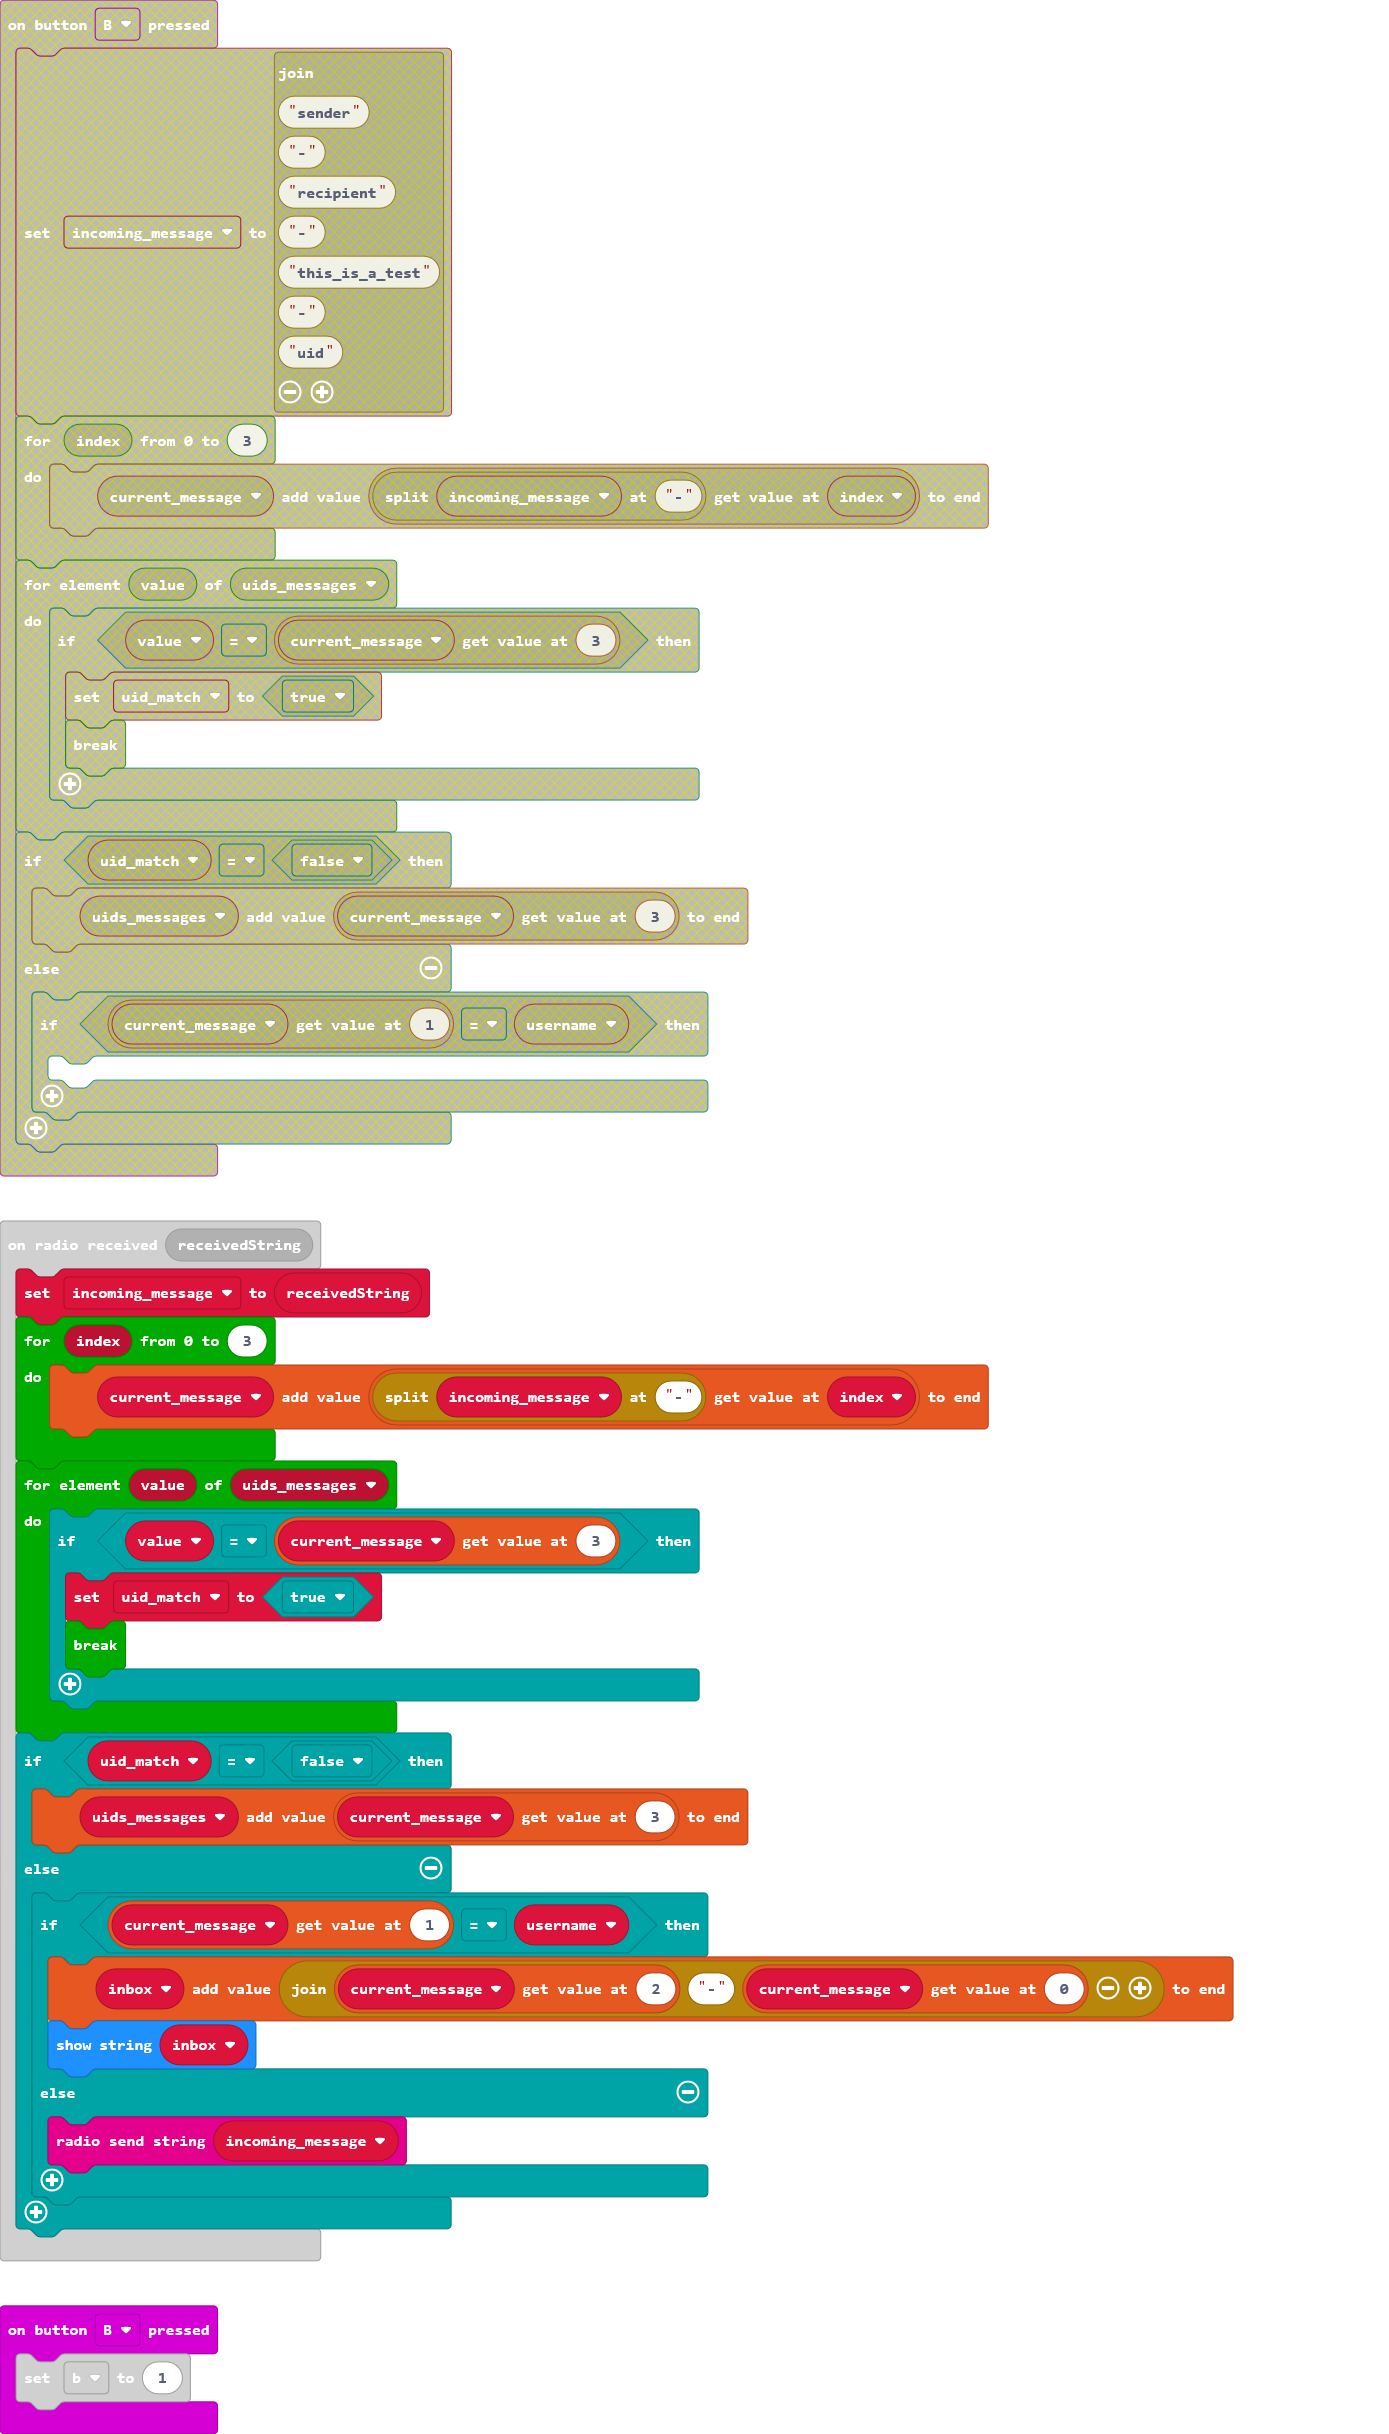
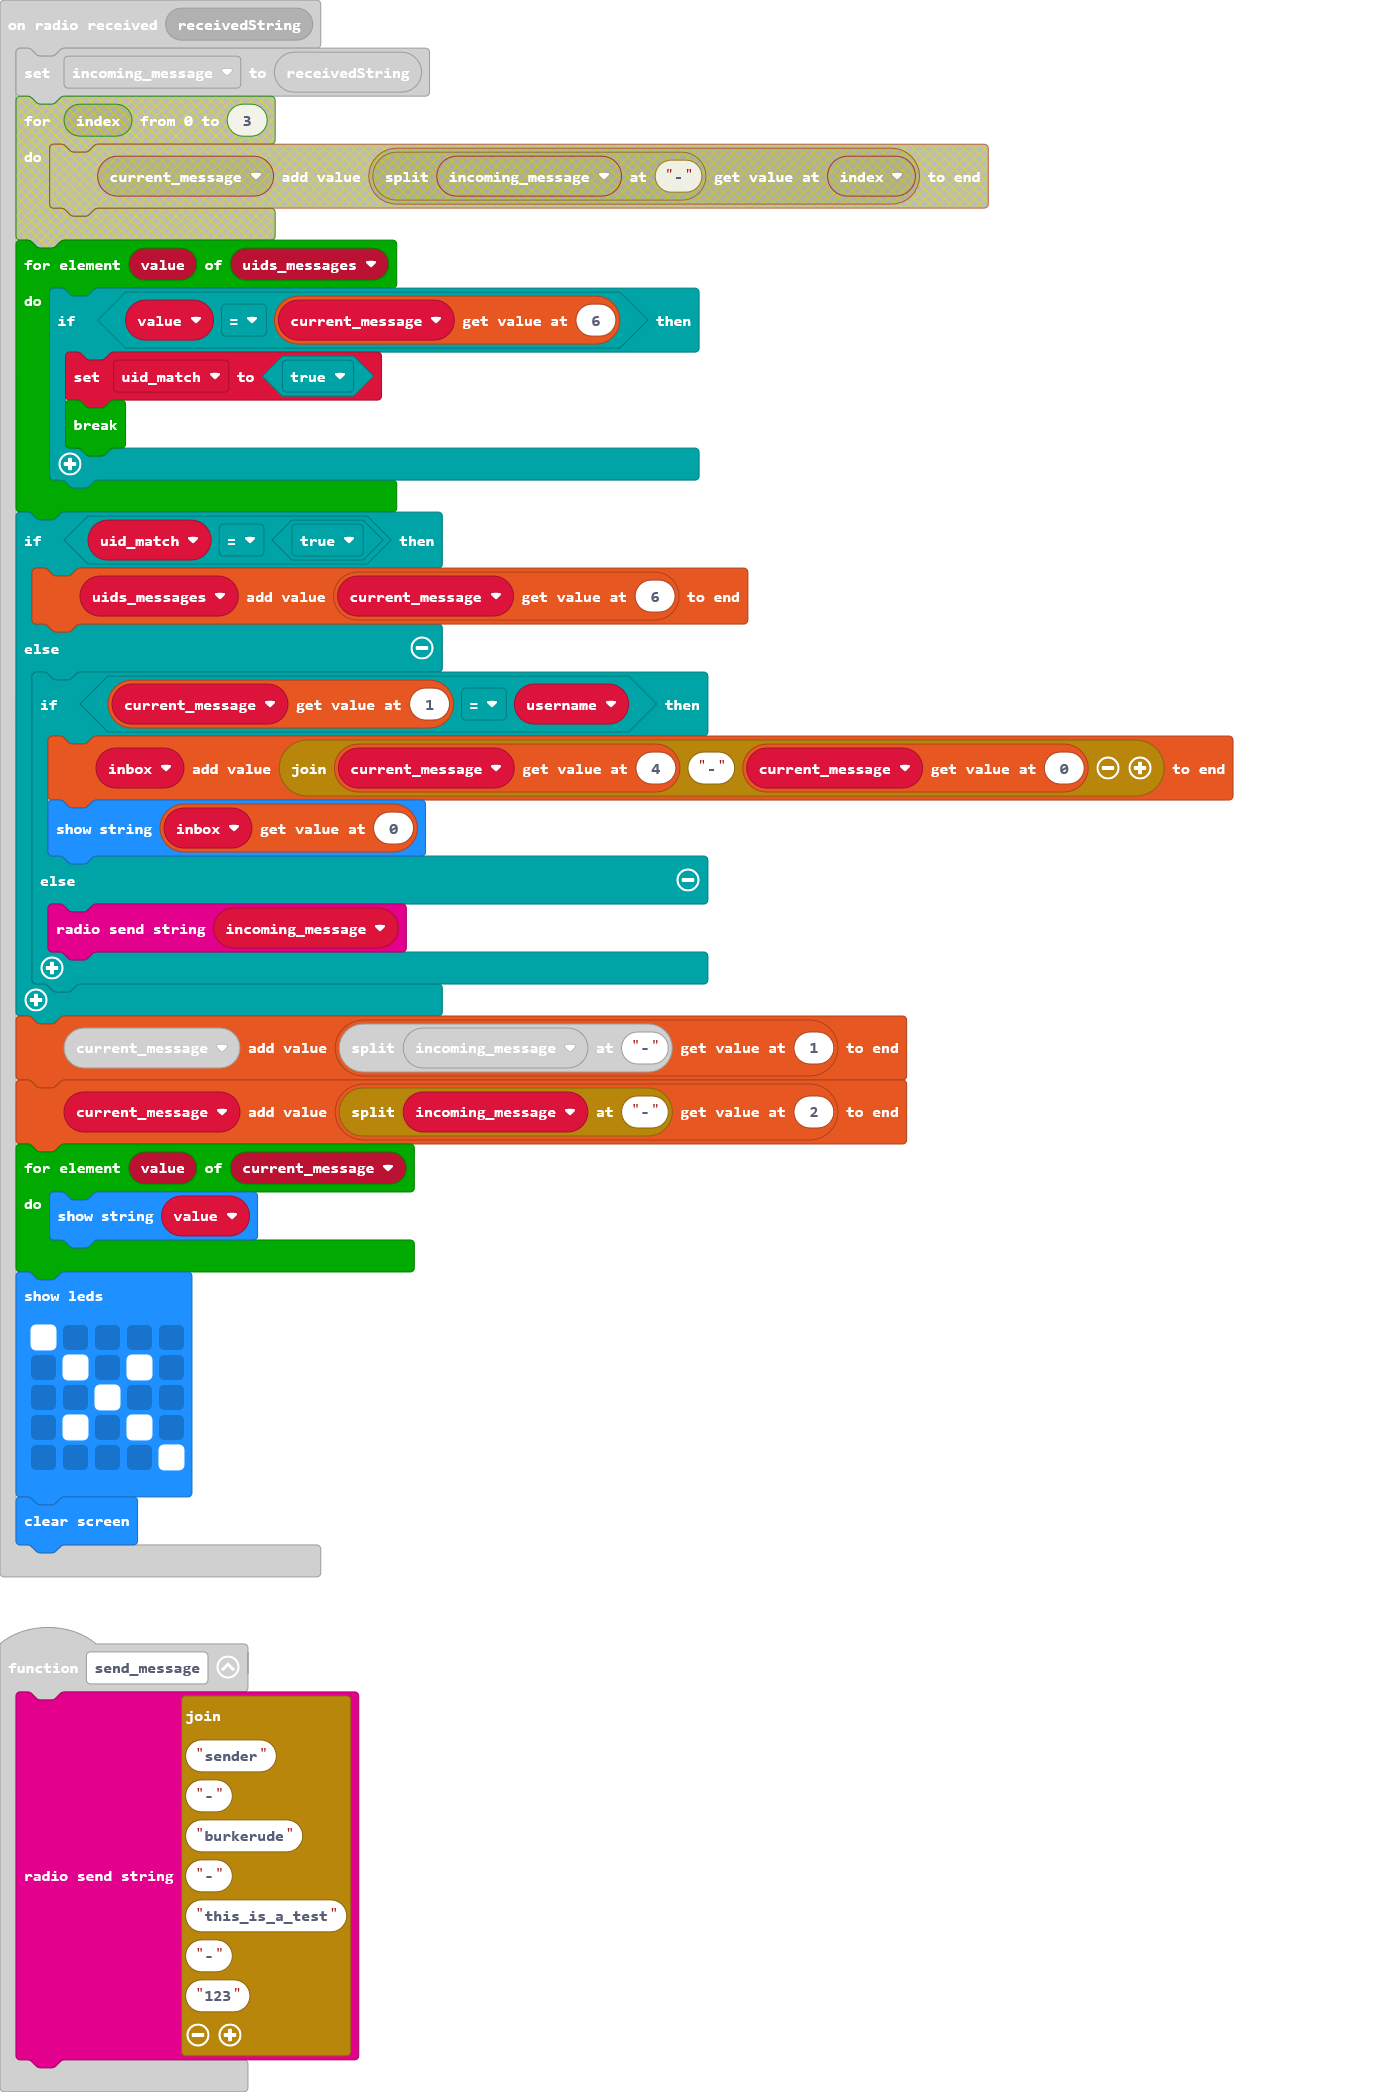
Update main.blocks, main.ts

diff --git a/main.ts b/main.ts
@@ -43,7 +43,7 @@ function button_reset () {
     AB = 0
 }
 function send_message () {
-	
+    radio.sendString("sender" + "-" + "burkerude" + "-" + "this_is_a_test" + "-" + "123")
 }
 input.onButtonPressed(Button.A, function () {
     send_message()
@@ -145,22 +145,32 @@ radio.onReceivedString(function (receivedString) {
     let uids_messages: string[] = []
     let current_message: string[] = []
     incoming_message = receivedString
-    for (let index = 0; index <= 3; index++) {
-        current_message.push(incoming_message.split("-")[index])
+    current_message.push(incoming_message.split("-")[1])
+    current_message.push(incoming_message.split("-")[2])
+    for (let value of current_message) {
+        basic.showString("" + (value))
     }
+    basic.showLeds(`
+        # . . . .
+        . # . # .
+        . . # . .
+        . # . # .
+        . . . . #
+        `)
+    basic.clearScreen()
     for (let value of uids_messages) {
-        if (value == current_message[3]) {
+        if (value == current_message[6]) {
             uid_match = true
             break;
         }
     }
-    if (uid_match == false) {
-        uids_messages.push(current_message[3])
+    if (uid_match == true) {
+        uids_messages.push(current_message[6])
     } else {
         if (current_message[1] == username) {
             let inbox: string[] = []
-            inbox.push("" + current_message[2] + "-" + current_message[0])
-            basic.showString("" + (inbox))
+            inbox.push("" + current_message[4] + "-" + current_message[0])
+            basic.showString("" + (inbox[0]))
         } else {
             radio.sendString(incoming_message)
         }
